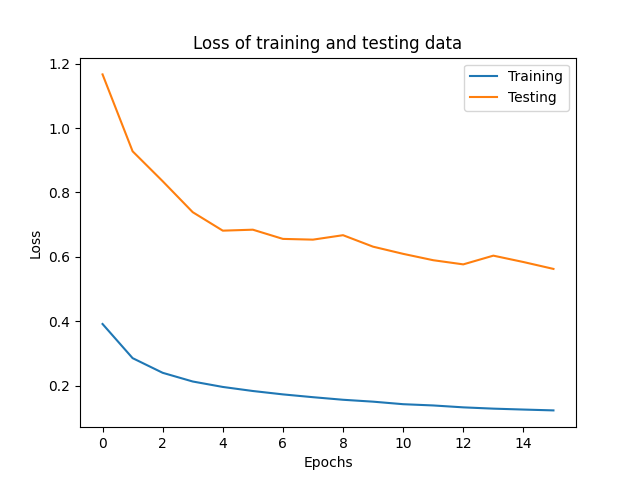
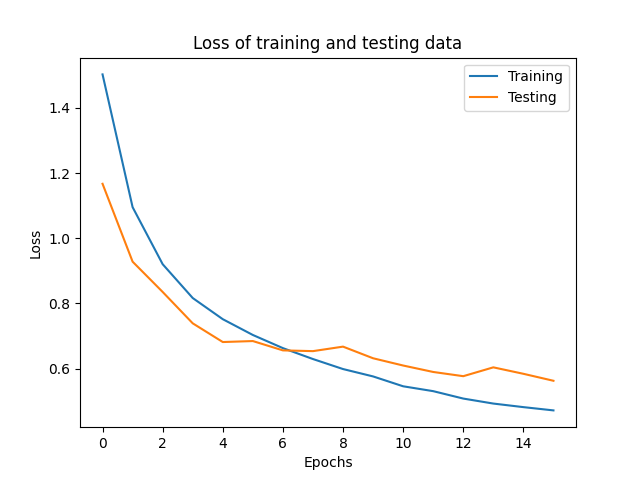
Losses file updated

diff --git a/main.py b/main.py
@@ -212,7 +212,7 @@ def train(net,trainloader,optimizer,criterion):
         
         # Statistics for each epoch
         print(f'Epoch: {epoch}, Loss: {running_loss/(50000/BATCH_SIZE):.6f}, Accuracy: {100*correct/(50000):.6f}%')
-        losses_training.append(running_loss/12000)
+        losses_training.append(running_loss/(50000/BATCH_SIZE))
         accuracy_training.append(100*correct/50000)
         correct=0
         running_loss=0.0
